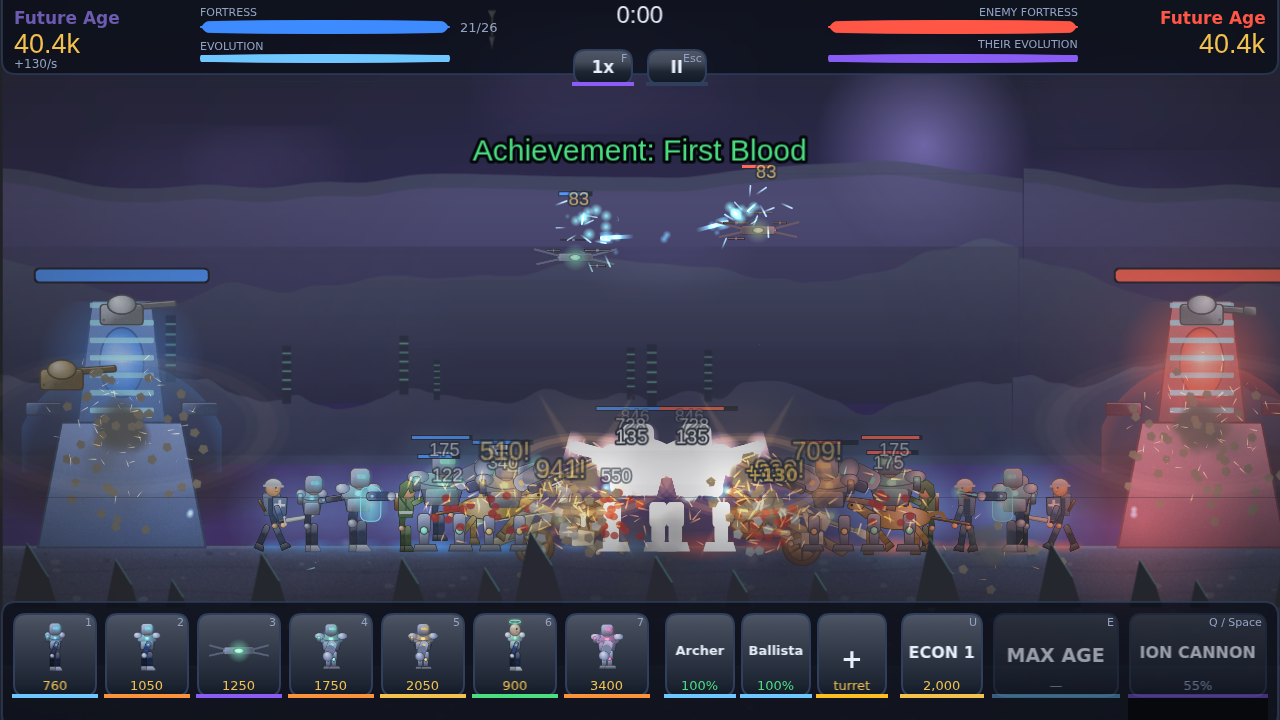
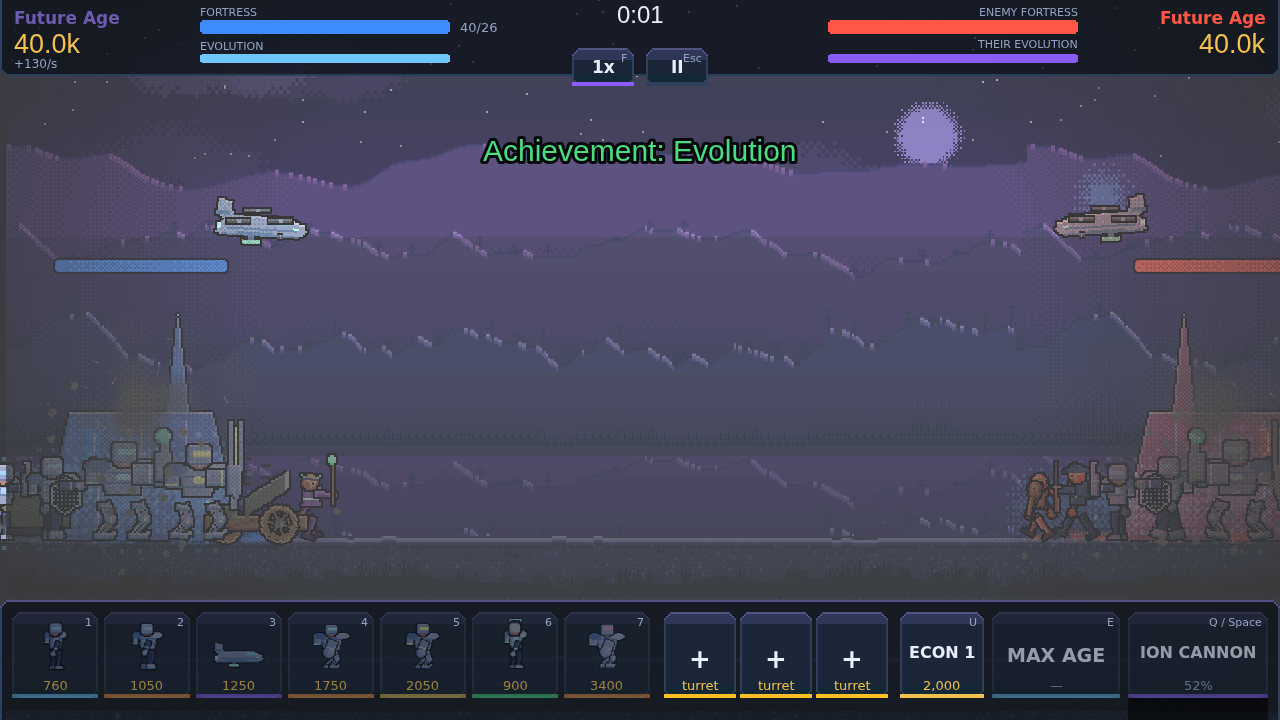
Document the pixel-art pipeline and refresh the screenshots
Records the decisions that make procedural pixel art work rather than just
described: why nothing goes through the canvas path API, why colour comes
from hue-shifted ramps, why the outline is a pass rather than a stroke,
and how the authoring scale sets the detail budget — a face is three
pixels, so most of the work is deciding what to leave out.

Also notes the one deliberate exception: light uses a dithered falloff on
its own large stamp, because a glow with a crisp rim reads as a solid disc
and reusing a small particle magnifies its dither into a checkerboard.

Screenshots recaptured across all five ages and the menus.

Claude-Session: https://claude.ai/code/session_01FfdsbES3pBhqF3ja5SmriR

diff --git a/docs/DESIGN.md b/docs/DESIGN.md
@@ -148,8 +148,13 @@ Everything is generated at load into the Phaser texture manager:
 
 - ~250 unit body-part textures (32 units × 6–8 parts)
 - 32 unit icons, 10 fortresses, 24 turret pieces
-- 15 projectiles, 9 particle sprites
-- 5 ages × (1 ground + 3 ridge bands)
+- 15 projectiles, 9 particle sprites, 1 light falloff
+- 5 ages × (1 sky + 1 ground + 3 ridge bands + 1 foreground)
+
+Authoring at half scale makes this cheaper than it looks: a fortress is 100×125
+pixels rather than 300×375, and a unit part is a few hundred pixels rather than
+a few thousand. The whole set is well under what the old smooth-shaded pipeline
+allocated, and the per-pixel loops are plain typed-array writes.
 
 Generation is chunked to a **14 ms per frame** budget in `PreloadScene` so the
 progress bar keeps animating instead of the tab freezing.
@@ -174,6 +179,52 @@ initialisers do not re-run. `BattleScene.resetSceneState` and
 `HUDScene.resetWidgets` clear every mutable field by hand; without them a
 restarted battle came back still paused, and the HUD kept updating widgets from
 the previous match that had already been destroyed.
+
+## Drawing pixel art procedurally
+
+The whole world is pixel art generated at boot. That combination — procedural
+*and* pixel art — is unusual, and it only works because of a few decisions that
+are easy to get wrong.
+
+**Never touch the canvas path API.** `fill()` and `stroke()` antialias. A single
+row of half-transparent edge pixels is the entire difference between pixel art
+and a small blurry drawing, and no amount of care elsewhere recovers from it.
+`gfx/pixel.ts` writes into a `Uint32Array` directly: Bresenham lines, midpoint
+ellipses, scanline polygons, integer rectangles. The only softness in the game
+comes from ordered Bayer dithering, which is a pattern of hard pixels.
+
+**Colour comes from hue-shifted ramps.** Every material is five tones from one
+base colour, with shadows rotated toward blue and highlights toward yellow.
+Plain lighten/darken is what makes procedural art look procedural — it produces
+a grey axis through every material and the result reads as plastic. The hue
+shift costs nothing and does most of the work of making the art look drawn.
+
+**The outline is a pass, not a stroke.** Outlining each shape as it is drawn
+gives a unit a tangle of internal borders and no silhouette. `Pix.outline` runs
+over the finished part and wraps whatever is opaque in one pixel, so a soldier
+reads as one object. The outline colour is derived from the material rather
+than being black, which keeps sprites in the scene instead of on top of it.
+
+**Scale sets the detail budget.** Art is authored at `RES = 1/2` and displayed
+at double with nearest-neighbour sampling, so a 66-pixel-tall soldier is 33 real
+pixels. At that size a face is three pixels — brow, eye, mouth — a quiver is
+four pixels of fletching, and a horse's head is a wedge with two ears. Anything
+beyond that turns to noise the moment the sprite moves. Most of the work in
+`unitArt.ts` is deciding what to leave out.
+
+**Everything shares the grid.** The interface is drawn the same way, because a
+smoothly rounded panel over a hard-edged battlefield reads as two different
+games. Textures whose dimensions are fixed by their consumer — the particle
+sprites, sized by the emitters that spawn them — are authored small and emitted
+through `toCanvasScaled(2)`, so their pixels match the world without every call
+site being retuned.
+
+**Light is the exception that proves the rule.** A glow with a crisp rim reads
+as a solid disc, so lights use a dithered falloff instead. It needs its own
+stamp: a light's radius runs to several hundred pixels, and reusing the 32-pixel
+particle meant magnifying its dither tenfold into a checkerboard the size of a
+fortress. `drawLightFalloff` is authored at 192 pixels and quantised into nine
+banded steps, so it stays a glow at any radius the game asks for.
 
 ## Lockstep multiplayer
 

diff --git a/README.md b/README.md
@@ -4,9 +4,9 @@ A side-view autobattler that spans five ages of warfare. Feed gold into a build
 queue, evolve your civilisation from bone clubs to orbital ion cannons, and
 level the enemy fortress before they level yours.
 
-Built with **Phaser 3**, **TypeScript** and **esbuild**. Every sprite, every
-background and every sound is generated procedurally at runtime — the game
-ships with no art or audio files at all.
+Built with **Phaser 3**, **TypeScript** and **esbuild**. It is pixel art, and
+every pixel of it is generated procedurally at runtime — along with every
+sound. The game ships with no art or audio files at all.
 
 ![Battle](screenshots/battle.png)
 
@@ -153,11 +153,21 @@ src/
 
 Two design decisions shape everything else:
 
-**All art is code.** `gfx/painter.ts` provides drawing primitives; `unitArt.ts`
-turns a `UnitVisual` description (helmet, torso, weapon, chassis, palette) into
-a set of body-part textures. `textureFactory.ts` runs those generators once at
-load, spread across frames so the loading bar keeps moving. Adding a unit means
-adding a data entry, not an asset.
+**All art is code, and all of it is pixel art.** `gfx/pixel.ts` owns an integer
+pixel grid with Bresenham lines, midpoint ellipses, scanline polygons, ordered
+dithering and hue-shifted colour ramps. Nothing goes through the canvas path
+API — `fill()` and `stroke()` antialias, and one row of half-transparent edge
+pixels is the difference between pixel art and a small blurry drawing.
+`unitArt.ts` turns a `UnitVisual` description (helmet, torso, weapon, chassis,
+palette) into a set of body-part textures on that grid; `propArt.ts` does the
+fortresses, ammunition and terrain. `textureFactory.ts` runs the generators
+once at load, spread across frames so the loading bar keeps moving. Adding a
+unit means adding a data entry, not an asset.
+
+Art is authored at half scale and displayed at double, with the renderer
+sampling nearest-neighbour, so a foot soldier is 33 real pixels tall. See
+[docs/DESIGN.md](docs/DESIGN.md#drawing-pixel-art-procedurally) for what that
+budget buys and what it forbids.
 
 **The simulation is hand-rolled.** There is no physics engine. `sim/unit.ts`
 integrates knockback, gravity and friction directly, drives a procedural walk
